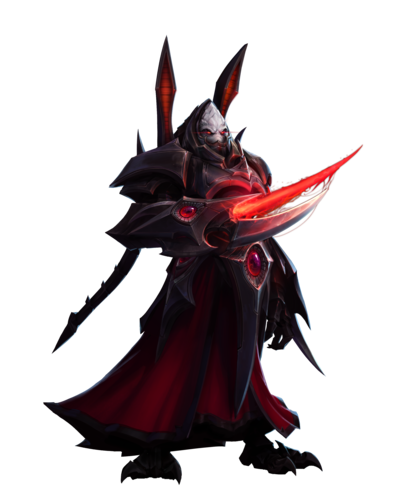
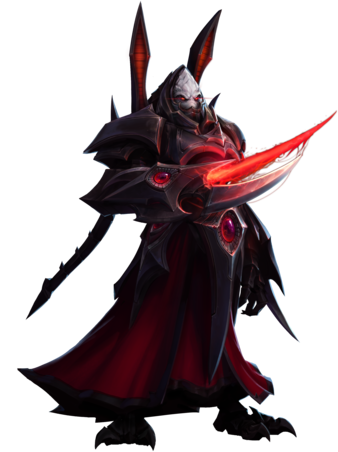
added more hots images editing pokemon

Changed region(s): [[0.0592, 0.0, 0.9467, 1.0], [0.9467, 0.2478, 1.0, 0.2788], [0.4734, 0.5885, 0.503, 0.6195]]

diff --git a/data/hots.js b/data/hots.js
@@ -2233,6 +2233,7 @@ export const heros = [
         "name": "Auriel",
         "short_name": "auriel",
         "attribute_id": "Auri",
+        "image": "/data/images/auriel.png",
         "translations": [
             "ауриэль",
             "奥莉尔",
@@ -2643,6 +2644,7 @@ export const heros = [
         "name": "Azmodan",
         "short_name": "azmodan",
         "attribute_id": "Azmo",
+        "image": "/data/images/azmodan.png",
         "translations": [
             "asmodan",
             "азмодан",
@@ -3322,6 +3324,7 @@ export const heros = [
         "name": "Brightwing",
         "short_name": "brightwing",
         "attribute_id": "Faer",
+        "image": "/data/images/brightw.png",
         "translations": [
             "luisaile",
             "funkelchen",
@@ -3946,6 +3949,7 @@ export const heros = [
         "name": "Cassia",
         "short_name": "cassia",
         "attribute_id": "Amaz",
+        "image": "/data/images/cassia.png",
         "translations": [
             "cássia",
             "kasja",

diff --git a/scripts/hotscards.js b/scripts/hotscards.js
@@ -29,10 +29,12 @@ const allCars = heros.map(myCar => {
 
   // assigning classes.
   makeElement.className = 'box';
+  imageElement.className = 'imagecard';
 
     makeElement.textContent = myCar.mAKE;
     roleElement.textContent = myCar.role;
     imageElement.src = myCar.image;
+
 
     
     mainContainer.appendChild(makeElement);

diff --git a/scripts/pokecards.js b/scripts/pokecards.js
@@ -2,6 +2,13 @@ import { pokemon } from '../data/pokemon.js';
 
 console.log(pokemon);
 
+
+class Pokemon {
+  constructor(id) {
+    this.id = id
+  }
+}
+
 const mainContainer = document.querySelector('.container')
 
   function createpokecard(pokedata) {

diff --git a/css/hots.css b/css/hots.css
@@ -332,6 +332,10 @@
         text-decoration: none;
         color: #9FEDD7;
       }
+
+      .imagecard {
+        width: 80px;
+      }
       
       .pokeh1 {
           font-size: 50px;

diff --git a/pokemoncards.html b/pokemoncards.html
@@ -27,6 +27,7 @@
               <h1 class = "pokeh1">Pokemon!</h1>
 
     <div class ="container">
+      <button class = ""
 
     </div>
 
